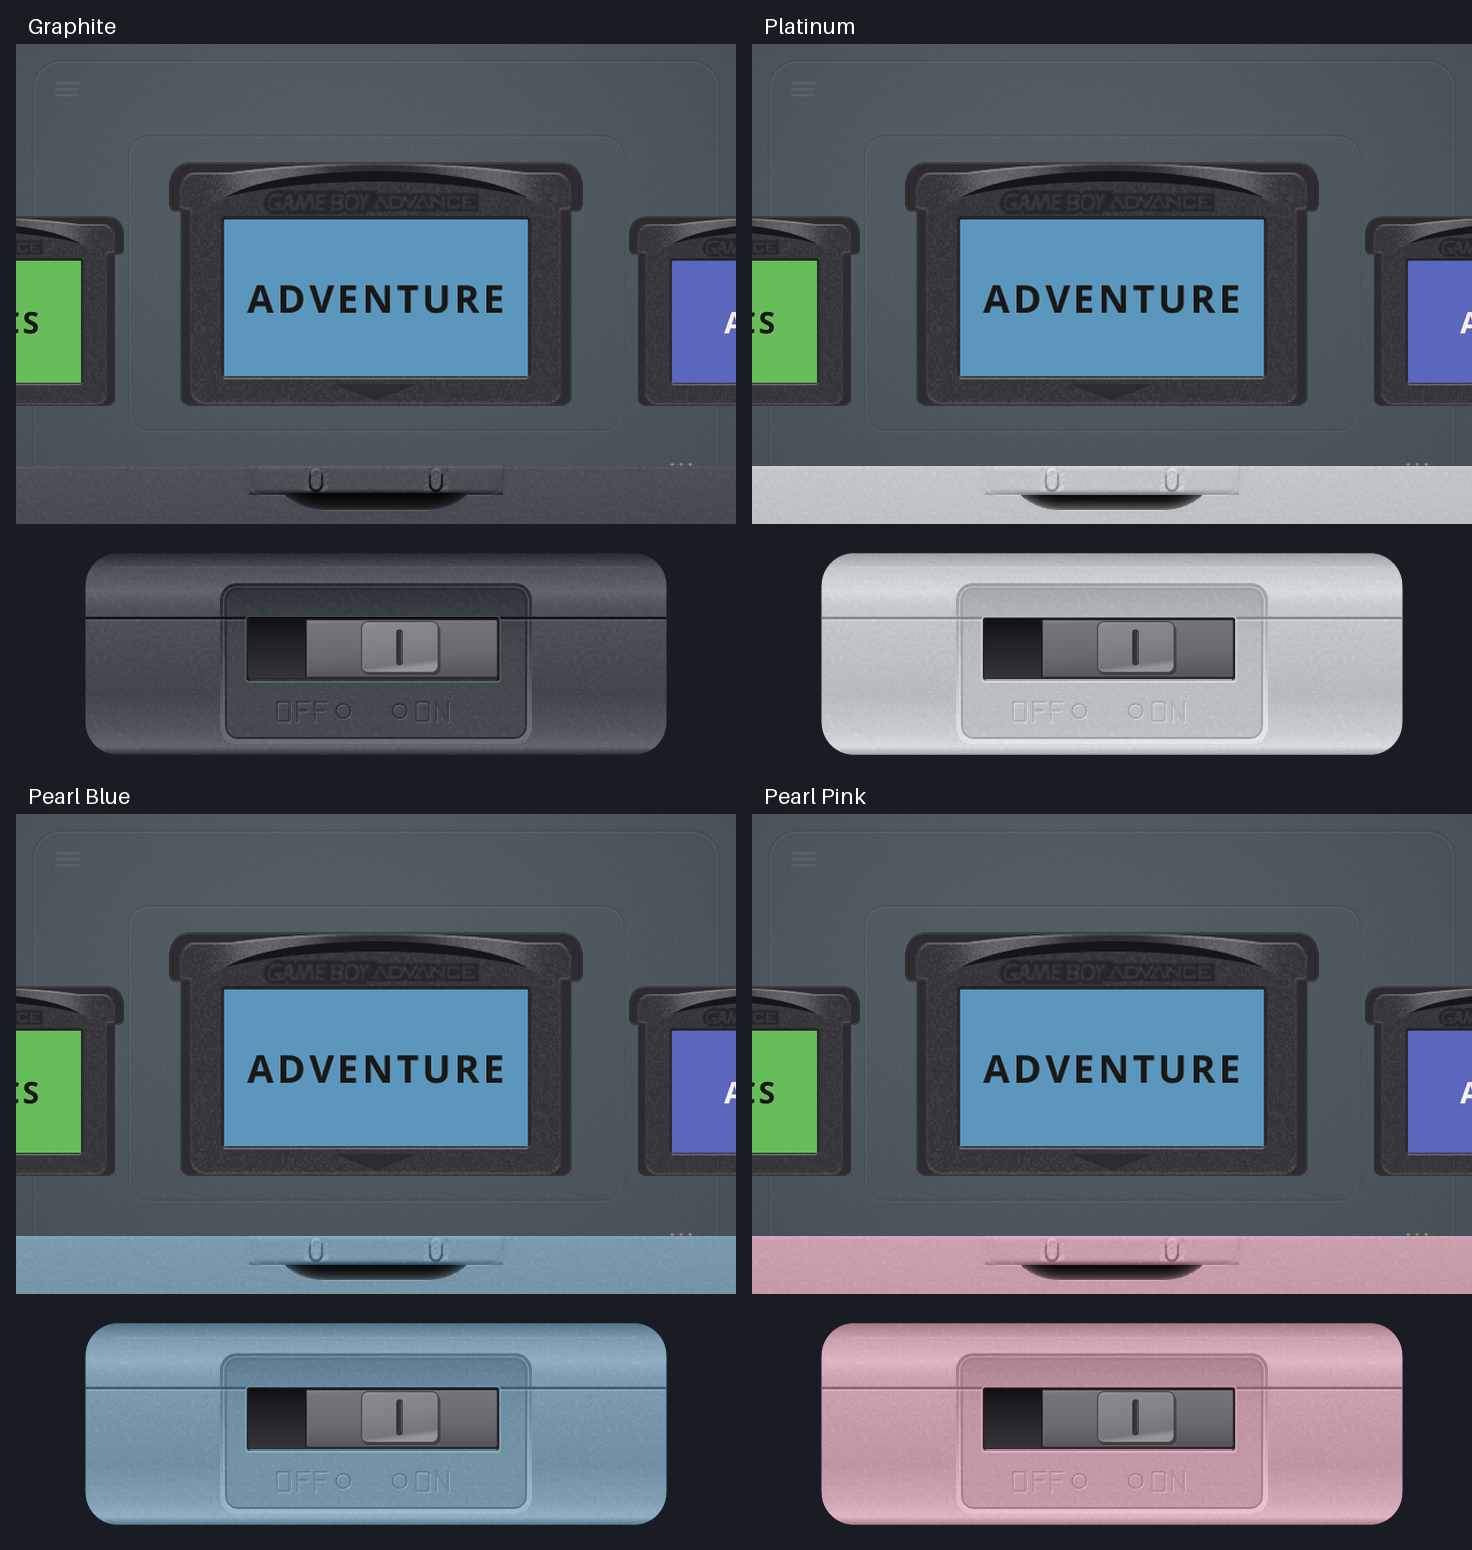
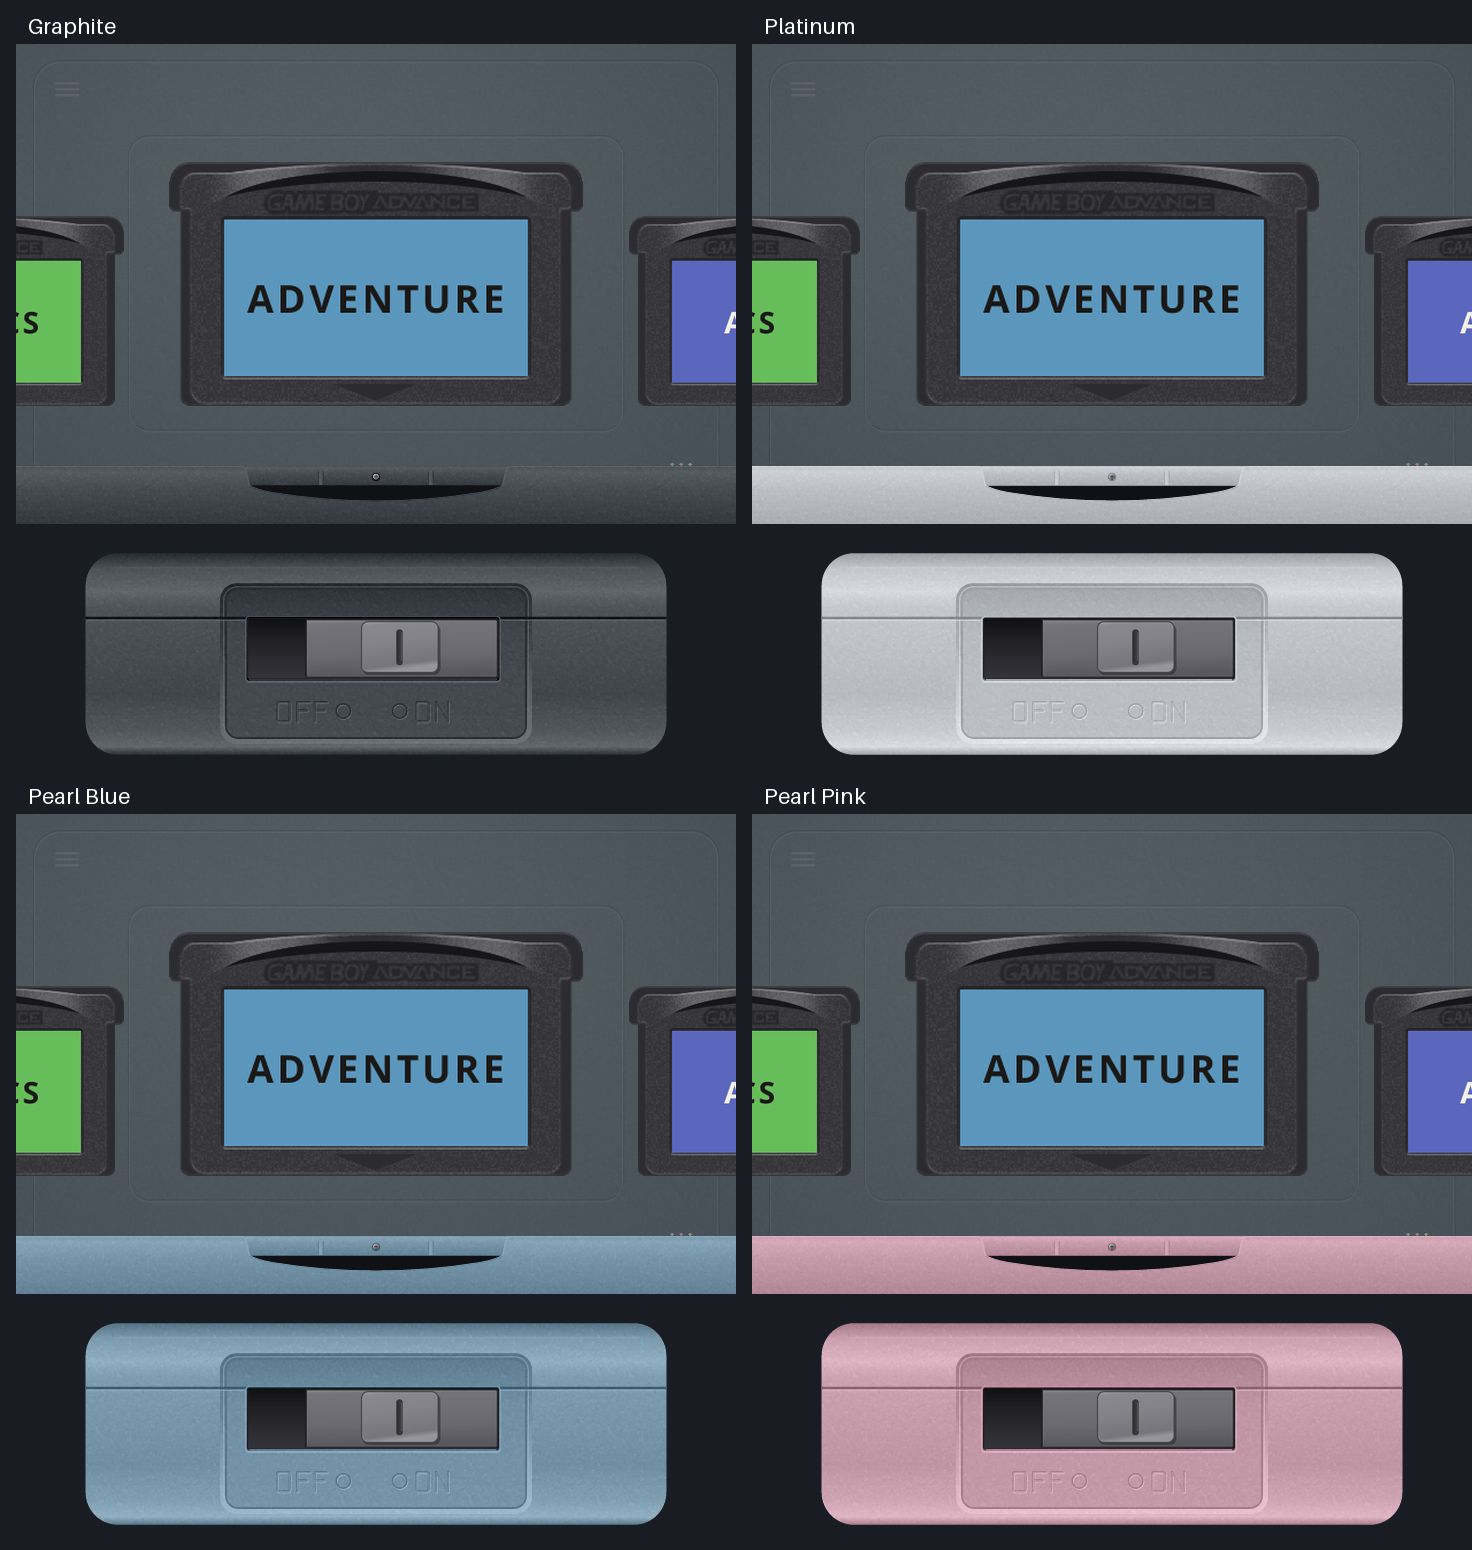
Rebuild GBA SP insertion housing in SVG with subtle edge wear

diff --git a/tools/extract-shell-material.py b/tools/extract-shell-material.py
@@ -32,40 +32,4 @@ grain -= np.fft.ifft2(smooth).real
 grain -= grain.mean(); grain *= 2.1 / grain.std()
 Image.fromarray(np.uint8(np.clip(128+grain, 120, 136))).save(ROOT/'assets/rgsp_paint_grain.png')
 
-# Geometry is retained from the existing slot masks, not its leather-like lighting.
-for front in [False, True]:
-    src = np.asarray(Image.open(ROOT/f'assets/slot_{"front" if front else "back"}_light.png').convert('RGBA'))
-    alpha = src[:, :, 3]; h, w = alpha.shape
-    y, x = np.mgrid[:h, :w]
-    relief = 3.0 - y*0.10 + 3.0*np.exp(-((x-w*.35)/(w*.6))**2)
-    if front:
-        field = gaussian_filter((alpha > 128).astype(float), 0.65)
-        gy, gx = np.gradient(field)
-        relief += (gy-gx*.25)*60.0
-        # Preserve a readable rolled lip around the original thumb-scoop mask.
-        distance = distance_transform_edt(alpha > 128)
-        relief -= 10.0*np.exp(-distance/2.2)
-        # A slim highlight on the upper painted edge, restrained satin sheen.
-        relief += 8.0*np.exp(-((y-1.1)/1.1)**2)
-        painted = np.ones((h,w),dtype=bool)
-    else:
-        # Recover the original rounded insertion lip's broad cross-section.
-        # Median across a hardware-free strip rejects the old pebbled grain.
-        luma = src[:, :, :3].astype(float) @ np.array([0.2126, 0.7152, 0.0722])
-        profile = gaussian_filter(np.median(luma[:, 35:205], axis=1), 0.65)
-        relief = (profile[:, None]-np.median(profile[5:20]))*0.88 + np.zeros((h,w))
-        relief += 3.0*np.exp(-((x-w*.35)/(w*.6))**2)
-        # The two small U-shaped insertion fasteners are geometry, not grain.
-        # Retain their photograph-derived relief separately from the paint.
-        detail = gaussian_filter(luma, 0.55)-gaussian_filter(luma, (0.55, 10.0))
-        for cx in [300, 420]:
-            fade = np.clip((14.0-np.abs(x-cx))/3.0, 0.0, 1.0)
-            fade *= np.clip((28.0-y)/3.0, 0.0, 1.0)
-            relief += detail*fade*1.10
-        painted = y < 29
-    out = np.zeros_like(src)
-    out[:, :, 0] = np.where(painted,np.clip(128+relief,0,255),np.clip(9+(y-29)*.10,0,255))
-    out[:, :, 1] = painted*255
-    out[:, :, 3] = alpha
-    Image.fromarray(out).save(ROOT/f'assets/slot_{"front" if front else "back"}_material.png')
-print('Extracted 128x128 seamless grain and neutral slot geometry.')
+print('Extracted 128x128 seamless paint grain.')

diff --git a/crates/slot-ui/src/material.rs b/crates/slot-ui/src/material.rs
@@ -26,19 +26,19 @@ pub fn shell_slot_faces(colour: ShellColour) -> [&'static [u8]; 2] {
     let faces = FACES[index].get_or_init(|| {
         let base = shell_rgb(ShellColour::FINISHES[index]);
         [
-            include_bytes!("../../../assets/slot_back_material.png").as_slice(),
-            include_bytes!("../../../assets/slot_front_material.png").as_slice(),
+            include_str!("../assets/slot_back.svg"),
+            include_str!("../assets/slot_front.svg"),
         ].map(|bytes| {
-            let (mut rgba, w, _) = crate::art::decode_png_bytes(bytes).expect("embedded shell geometry");
+            let w = 720usize;
+            let mut rgba = crate::art::render_svg(bytes, 720, 58).expect("embedded SVG shell geometry");
             for (at, pixel) in rgba.chunks_exact_mut(4).enumerate() {
-                let painted = pixel[1] > 128;
-                let relief = pixel[0] as f32 - 128.0;
-                let cavity = pixel[0];
+                let painted = pixel[0] as f32 > pixel[1] as f32 * 1.5;
+                let relief = (pixel[0] as f32 - 174.0) * 0.68;
                 for c in 0..3 {
                     pixel[c] = if painted {
                         (base[c] as f32 + relief + paint_grain(at % w as usize, at / w as usize))
                             .clamp(0.0, 255.0) as u8
-                    } else { cavity };
+                    } else { pixel[c] };
                 }
             }
             rgba

diff --git a/crates/slot-ui/tests/shell_material.rs b/crates/slot-ui/tests/shell_material.rs
@@ -31,19 +31,17 @@ fn paint_has_fine_low_contrast_grain_instead_of_deep_pebbles() {
 }
 
 #[test]
-fn both_insertion_fasteners_keep_their_relief_in_every_finish() {
+fn svg_slot_keeps_an_open_throat_and_shallow_bowed_lip() {
     for colour in ShellColour::FINISHES {
-        let back = shell_slot_faces(colour)[0];
-        for centre in [300, 420] {
-            let mut deepest = 0i16;
-            for y in 5..24 {
-                for x in centre-7..centre+8 {
-                    let mark = back[((y*SLOT_W+x)*4) as usize] as i16;
-                    let surround = back[((y*SLOT_W+centre-20)*4) as usize] as i16;
-                    deepest = deepest.max(surround-mark);
-                }
-            }
-            assert!(deepest >= 15, "{colour:?} fastener at {centre} lost its depth");
-        }
+        let [back, front] = shell_slot_faces(colour);
+        let at = |x: usize, y: usize| (y * SLOT_W as usize + x) * 4;
+        // Cartridge passes through the transparent centre; the front then hides its foot.
+        assert_eq!(front[at(360, 25)+3], 0);
+        assert_eq!(front[at(360, 42)+3], 255);
+        assert!(back[at(360, 25)] < 25);
+        // Real molded ribs are painted; the small metal screw stays neutral across finishes.
+        assert!(back[at(305, 10)+3] > 250);
+        let screw = at(359, 9);
+        assert_eq!(&back[screw..screw+4], &shell_slot_faces(ShellColour::Graphite)[0][screw..screw+4]);
     }
 }

diff --git a/MATERIALS.md b/MATERIALS.md
@@ -61,3 +61,17 @@ python tools/compose-shell-preview.py /tmp/shell-finishes previews/rgsp-shell-fi
 The preview exports the same textures and draw commands used in production.
 Cartridge sizes remain the accepted GBA +15%, GB/GBC +8%; no physical-sizing
 experiment is included.
+
+## GBA SP insertion housing, SVG rebuild
+
+`crates/slot-ui/assets/slot_back.svg` and `slot_front.svg` are original vector
+geometry, replacing the old photographic masks and extracted fasteners entirely.
+Proportion references: iFixit, [GBA SP bottom shell replacement](https://www.ifixit.com/Guide/Nintendo+Game+Boy+Advance+SP+Bottom+Shell+Replacement/12735),
+photos `2kN4kwkSbK6PyaUD`, `OCO3qBtqtET3xTk4`, and `Ldow6GCmi5DecKU3`.
+These show a shallow bowed lip, two molded ribs, and a central case screw.
+No reference photograph is embedded in these SVGs. Red encodes paint relief;
+neutral elements preserve the dark throat and small metal screw. The original
+fine RG SP paint grain is applied after SVG rasterization for every finish.
+Sparse subpixel vector scratches follow the handled edge, with paired lighter
+and darker strokes suggesting shallow wear rather than a coarse leather bump.
+The accepted cartridge sizes and insertion timing are retained.
